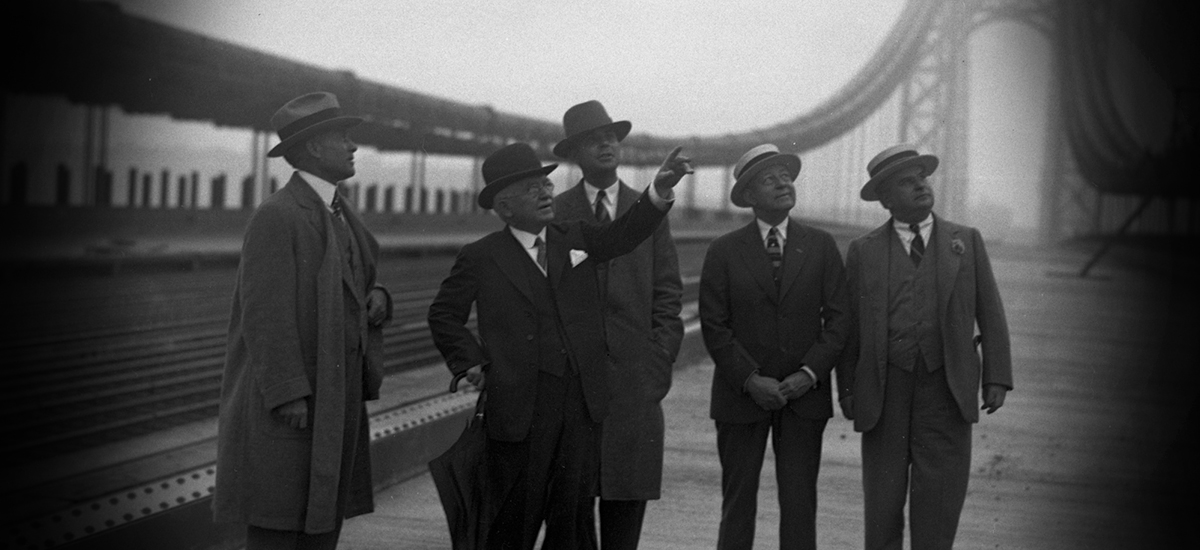
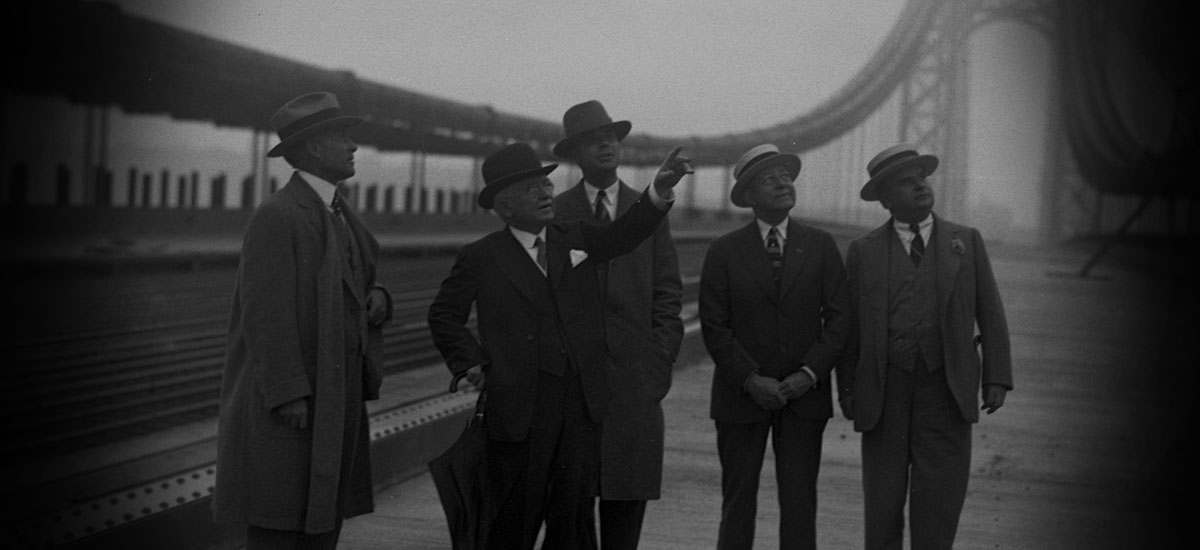
cleaning up the image folder and updating the css

diff --git a/project/static/css/style.css b/project/static/css/style.css
@@ -218,7 +218,7 @@ a {
 /* HEADER WITH IMAGE */
 #intro-bg {
     background-color: black;
-    background-image: url(../img/big-town-header.jpg);
+    background-image: url(../img/big-town-header.jpeg);
     background-position: center;
     background-repeat: no-repeat;
 }
